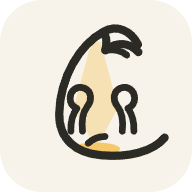
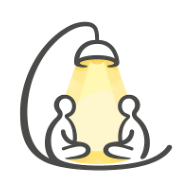
feat: replace brand assets with PNG variants [skip ci]

Changed region(s): [[0.0938, 0.0938, 0.9062, 0.9062]]

diff --git a/vite.config.ts b/vite.config.ts
@@ -16,7 +16,12 @@ export default defineConfig(({ mode }) => {
       VitePWA({
         registerType: 'prompt',
         injectRegister: false,
-        includeAssets: ['favicon.svg', 'pwa-192.png', 'pwa-512.png'],
+        includeAssets: [
+          'favicon.png',
+          'pwa-192.png',
+          'pwa-512.png',
+          'pwa-maskable-512.png',
+        ],
         manifest: {
           name: '友间 · Youjian',
           short_name: '友间',
@@ -41,16 +46,10 @@ export default defineConfig(({ mode }) => {
               purpose: 'any',
             },
             {
-              src: `${base}pwa-512.png`,
+              src: `${base}pwa-maskable-512.png`,
               sizes: '512x512',
               type: 'image/png',
               purpose: 'maskable',
-            },
-            {
-              src: `${base}pwa-icon.svg`,
-              sizes: 'any',
-              type: 'image/svg+xml',
-              purpose: 'any maskable',
             },
           ],
         },

diff --git a/index.html b/index.html
@@ -13,7 +13,7 @@
       content="default-src 'self'; script-src 'self' https://challenges.cloudflare.com; style-src 'self'; img-src 'self' data: blob:; font-src 'self'; connect-src 'self' %VITE_CSP_CONNECT_SRC% https://challenges.cloudflare.com; frame-src https://challenges.cloudflare.com; manifest-src 'self'; worker-src 'self' blob:; base-uri 'self'; form-action 'self'; frame-ancestors 'none'; object-src 'none'"
     />
     <meta name="description" content="友间——和固定好友共享专注时光。" />
-    <link rel="icon" href="/favicon.svg" type="image/svg+xml" />
+    <link rel="icon" href="/favicon.png" type="image/png" />
     <link rel="stylesheet" href="/src/styles/global.css" />
     <title>友间 · Youjian</title>
   </head>

diff --git a/src/components/BrandLogo.tsx b/src/components/BrandLogo.tsx
@@ -3,7 +3,7 @@ type BrandLogoProps = {
 };
 
 export function BrandLogo({ className = '' }: BrandLogoProps) {
-  const src = `${import.meta.env.BASE_URL}youjian-logo.svg`;
+  const src = `${import.meta.env.BASE_URL}youjian-logo.png`;
 
   return <img className={className} src={src} alt="" aria-hidden="true" />;
 }
